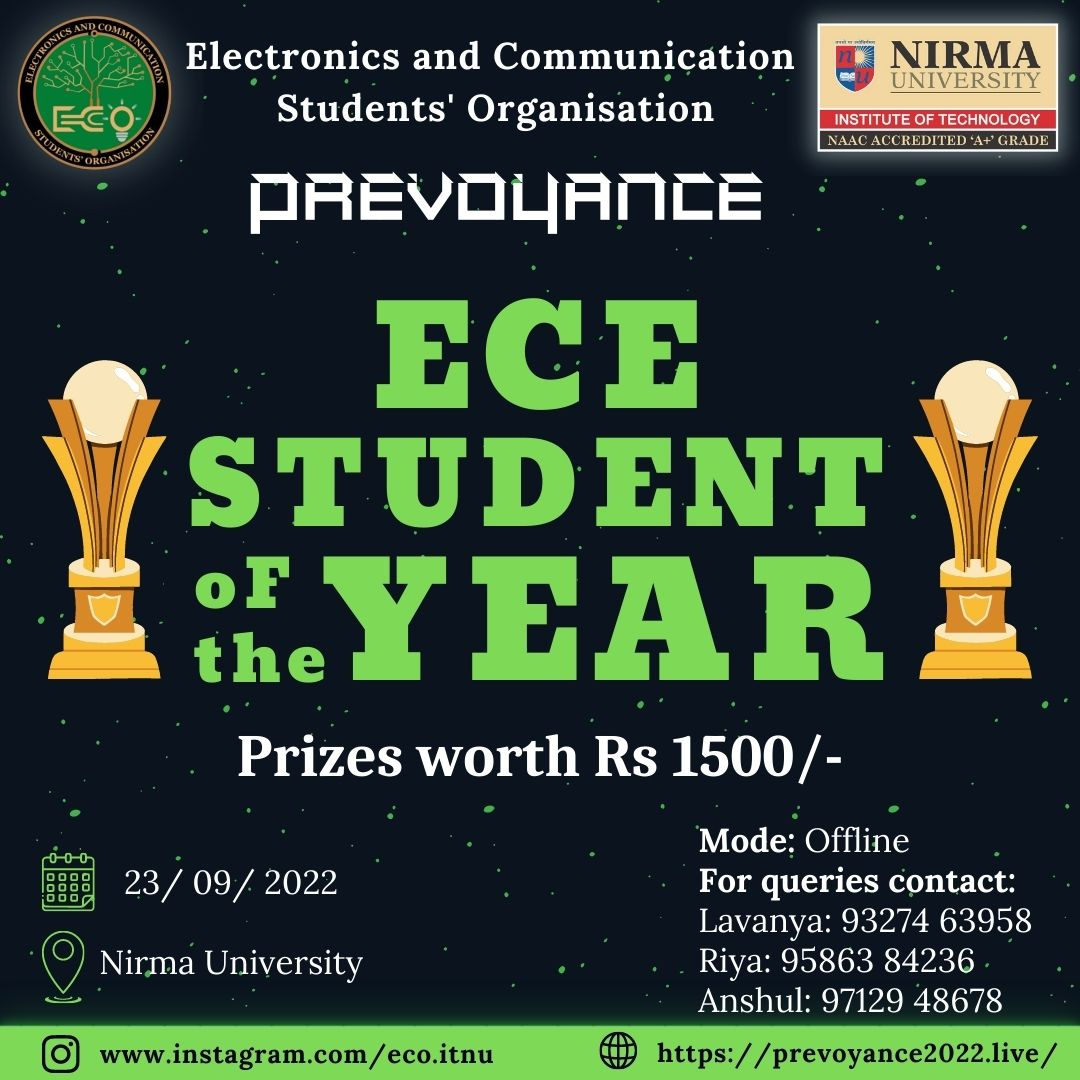
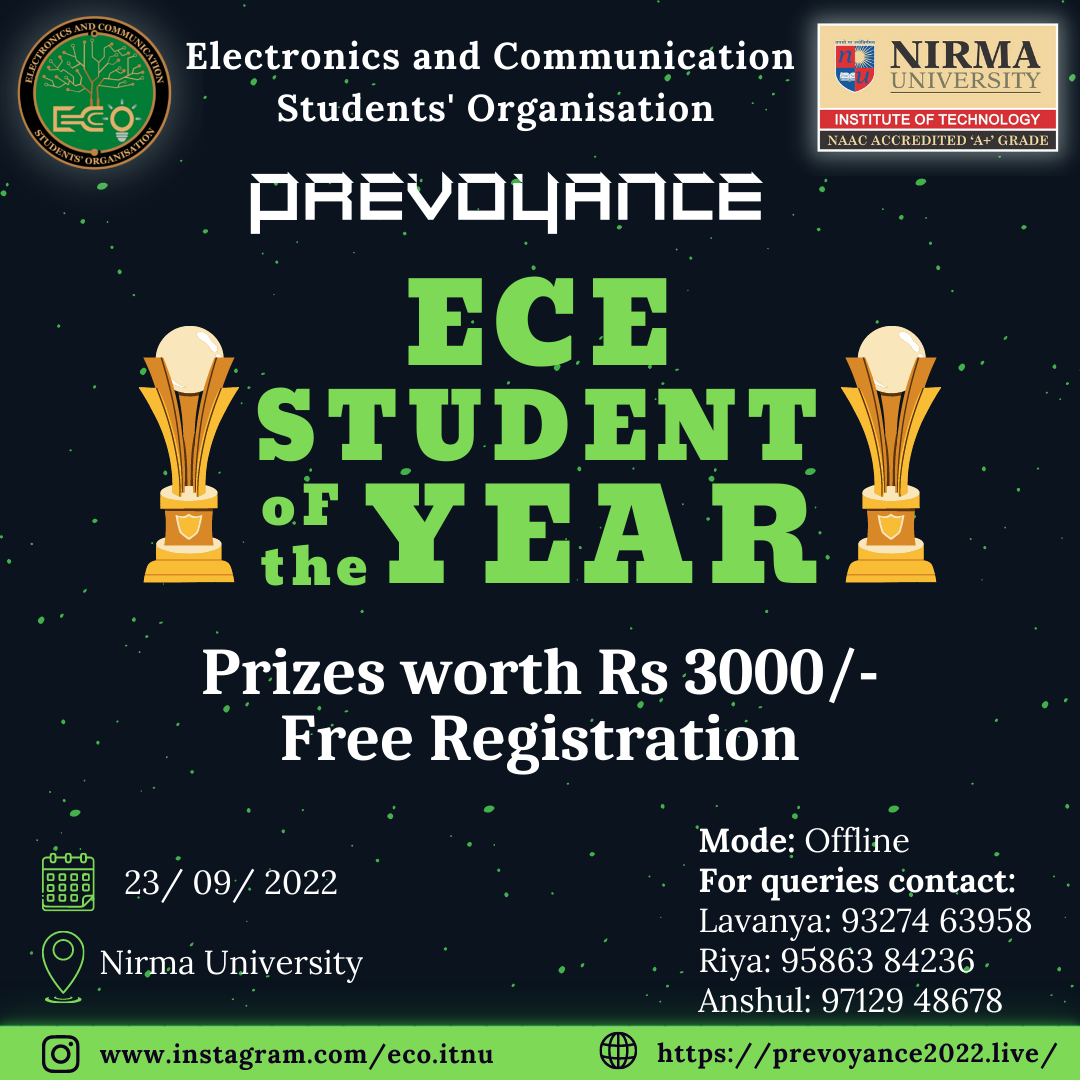
New Updates

diff --git a/index.html b/index.html
@@ -388,16 +388,16 @@
                     />
                     <p class="price">
                       <span class="currency id-color">Rs.</span>
-                      <b>150/- (Non-ECO)</b>
+                      <b>Free /-</b>
                       <br />
-                      <span class="currency id-color">Rs.</span>
-                      <b>70/- (ECO)</b>
+                      <!-- <span class="currency id-color">Rs.</span>
+                      <b>70/- (ECO)</b> -->
                     </p>
                   </div>
                   <div class="bottom">
                     <ul>
                       <li>
-                        <i class="icon_check_alt2"></i>Prizes worth Rs. 2000/-
+                        <i class="icon_check_alt2"></i>Prizes worth Rs. 3,000/-
                       </li>
                       <li>
                         <i class="icon_check_alt2"></i>Certificates for
@@ -436,13 +436,13 @@
                     />
                     <p class="price">
                       <span class="currency id-color">Rs.</span>
-                      <b>Variable Entry Fee</b>
+                      <b>Variable Entry Fee /-</b>
                     </p>
                   </div>
                   <div class="bottom">
                     <ul>
                       <li>
-                        <i class="icon_check_alt2"></i>Prizes worth Rs.10,000/-
+                        <i class="icon_check_alt2"></i>Prizes worth Rs. 10,000/-
                       </li>
                       <li>
                         <i class="icon_check_alt2"></i>Certificates for
@@ -492,20 +492,20 @@
                     />
                     <p class="price">
                       <span class="currency id-color">Rs.</span>
-                      <b>Free</b>
+                      <b>Free /-</b>
                     </p>
                   </div>
                   <div class="bottom">
                     <ul>
                       <li>
+                        <i class="icon_check_alt2"></i>Prizes Worth Rs. 3,500/-
+                      </li>
+                      <li>
                         <i class="icon_check_alt2"></i>Certificates for
                         Participants.
                       </li>
                       <li>
-                        <i class="icon_check_alt2"></i>Tout new ideas and Innovtions.
-                      </li>
-                      <li>
-                        <i class="icon_check_alt2"></i>Interact with Industry Professionals.
+                        <i class="icon_check_alt2"></i>Tout new ideas and Innovations.
                       </li>
                       <li>
                         <i class="icon_check_alt2"></i>Offline interaction.
@@ -537,16 +537,13 @@
                     />
                     <p class="price">
                       <span class="currency id-color">Rs.</span>
-                      <b>50/- (Non-ECO)</b>
-                      <br />
-                      <span class="currency id-color">Rs.</span>
-                      <b>30/- (ECO)</b>
+                      <b>Free /-</b>
                     </p>
                   </div>
                   <div class="bottom">
                     <ul>
                       <li>
-                        <i class="icon_check_alt2"></i>Prizes worth Rs 1500/-
+                        <i class="icon_check_alt2"></i>Prizes worth Rs 3,000/-
                       </li>
                       <li>
                         <i class="icon_check_alt2"></i>Certificaties for
@@ -585,16 +582,13 @@
                     />
                     <p class="price">
                       <span class="currency id-color">Rs.</span>
-                      <b>100/- (Non-ECO)</b>
-                      <br />
-                      <span class="currency id-color">Rs.</span>
-                      <b>60/- (ECO)</b>
+                      <b>Free /-</b>
                     </p>
                   </div>
                   <div class="bottom">
                     <ul>
                       <li>
-                        <i class="icon_check_alt2"></i>Prizes worth Rs. 1500/-
+                        <i class="icon_check_alt2"></i>Prizes worth Rs. 3,000/-
                       </li>
                       <li>
                         <i class="icon_check_alt2"></i>Certificates for
@@ -635,16 +629,13 @@
                     />
                     <p class="price">
                       <span class="currency id-color">Rs.</span>
-                      <b>50/- PH (Non-ECO)</b>
-                      <br />
-                      <span class="currency id-color">Rs.</span>
-                      <b>20/- PH (ECO)</b>
+                      <b>Free /-</b>
                     </p>
                   </div>
                   <div class="bottom">
                     <ul>
                       <li>
-                        <i class="icon_check_alt2"></i>Prizes worth Rs. 1500/-
+                        <i class="icon_check_alt2"></i>Prizes worth Rs. 3,000/-
                       </li>
                       <li>
                         <i class="icon_check_alt2"></i>Certificates for
@@ -685,16 +676,13 @@
                     />
                     <p class="price">
                       <span class="currency id-color">Rs.</span>
-                      <b>50/- PH (Non-ECO)</b>
-                      <br />
-                      <span class="currency id-color">Rs.</span>
-                      <b>30/- PH (ECO)</b>
+                      <b>Free /-</b>
                     </p>
                   </div>
                   <div class="bottom">
                     <ul>
                       <li>
-                        <i class="icon_check_alt2"></i>Prizes worth Rs. 2,500/-
+                        <i class="icon_check_alt2"></i>Prizes worth Rs. 3,000/-
                       </li>
                       <li>
                         <i class="icon_check_alt2"></i>Certificates for
@@ -740,17 +728,13 @@
                     />
                     <p class="price">
                       <span class="currency id-color">Rs.</span>
-                      <b>30/- PH (Non-ECO)</b>
-                    </p>
-                    <p class="price">
-                      <span class="currency id-color">Rs.</span>
-                      <b>20/- PH (ECO)</b>
+                      <b>Free /-</b>
                     </p>
                   </div>
                   <div class="bottom">
                     <ul>
                       <li>
-                        <i class="icon_check_alt2"></i>Prizes worth Rs. 1500/-
+                        <i class="icon_check_alt2"></i>Prizes worth Rs. 3,000/-
                       </li>
                       <li>
                         <i class="icon_check_alt2"></i>Certificates for
@@ -790,14 +774,14 @@
                     />
                     <p class="price">
                       <span class="currency id-color">Rs.</span>
-                      <b>150/- (Non-ECO)</b>
-                      <br />
-                      <span class="currency id-color">Rs.</span>
-                      <b>70/- (ECO)</b>
+                      <b>Free /-</b>
                     </p>
                   </div>
                   <div class="bottom">
                     <ul>
+                      <li>
+                        <i class="icon_check_alt2"></i>Prizes worth Rs. 3,000/-
+                      </li>
                       <li>
                         <i class="icon_check_alt2"></i>Certificates for
                         Participants
@@ -807,9 +791,6 @@
                       </li>
                       <li>
                         <i class="icon_check_alt2"></i>Showcase your Personality and Skills.
-                      </li>
-                      <li>
-                        <i class="icon_check_alt2"></i>Offline interaction
                       </li>
                       <!-- <li><i class="icon_close_alt2"></i>Private Access</li>
                       <li><i class="icon_close_alt2"></i>Experts Contacts</li> -->
@@ -844,7 +825,7 @@
                   <div class="bottom">
                     <ul>
                       <li>
-                        <i class="icon_check_alt2"></i>Prizes worth Rs. 2000/-
+                        <i class="icon_check_alt2"></i>Prizes worth Rs. 3,000/-
                       </li>
                       <li>
                         <i class="icon_check_alt2"></i>Certificates for
@@ -883,16 +864,13 @@
                     />
                     <p class="price">
                       <span class="currency id-color">Rs.</span>
-                      <b>150/- Per Team(Non-ECO)</b>
-                      <br />
-                      <span class="currency id-color">Rs.</span>
-                      <b>70/- Per Team (ECO)</b>
+                      <b>Free /-</b>
                     </p>
                   </div>
                   <div class="bottom">
                     <ul>
                       <li>
-                        <i class="icon_check_alt2"></i>Prizes worth Rs. 2500/-
+                        <i class="icon_check_alt2"></i>Prizes worth Rs. 3,000/-
                       </li>
                       <li>
                         <i class="icon_check_alt2"></i>Certificates for
@@ -932,16 +910,13 @@
                     />
                     <p class="price">
                       <span class="currency id-color">Rs.</span>
-                      <b>50/- PH (Non-ECO)</b>
-                      <br />
-                      <span class="currency id-color">Rs.</span>
-                      <b>30/- PH (ECO)</b>
+                      <b>Free /-</b>
                     </p>
                   </div>
                   <div class="bottom">
                     <ul>
                       <li>
-                        <i class="icon_check_alt2"></i>Prizes worth Rs. 1500/-
+                        <i class="icon_check_alt2"></i>Prizes worth Rs. 3,000/-
                       </li>
                       <li>
                         <i class="icon_check_alt2"></i>Certificates for
@@ -981,16 +956,13 @@
                     />
                     <p class="price">
                       <span class="currency id-color">Rs.</span>
-                      <b>50/- (Non-ECO)</b>
-                      <br />
-                      <span class="currency id-color">Rs.</span>
-                      <b>30/- (ECO)</b>
+                      <b>Free /-</b>
                     </p>
                   </div>
                   <div class="bottom">
                     <ul>
                       <li>
-                        <i class="icon_check_alt2"></i>Prizes worth Rs. 1,500/-
+                        <i class="icon_check_alt2"></i>Prizes worth Rs. 3,000/-
                       </li>
                       <li>
                         <i class="icon_check_alt2"></i>Certificates for
@@ -1030,16 +1002,13 @@
                     />
                     <p class="price">
                       <span class="currency id-color">Rs.</span>
-                      <b>50/- PH (Non-ECO)</b>
-                      <br />
-                      <span class="currency id-color">Rs.</span>
-                      <b>30/- PH (ECO)</b>
+                      <b>Free /-</b>
                     </p>
                   </div>
                   <div class="bottom">
                     <ul>
                       <li>
-                        <i class="icon_check_alt2"></i>Prizes worth Rs. 1,500/-
+                        <i class="icon_check_alt2"></i>Prizes worth Rs. 3,000/-
                       </li>
                       <li>
                         <i class="icon_check_alt2"></i>Certificates for
